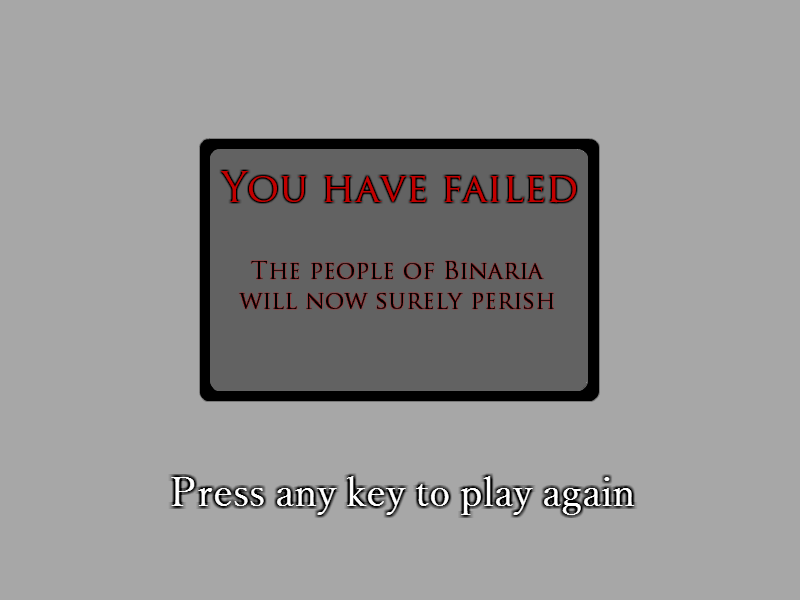
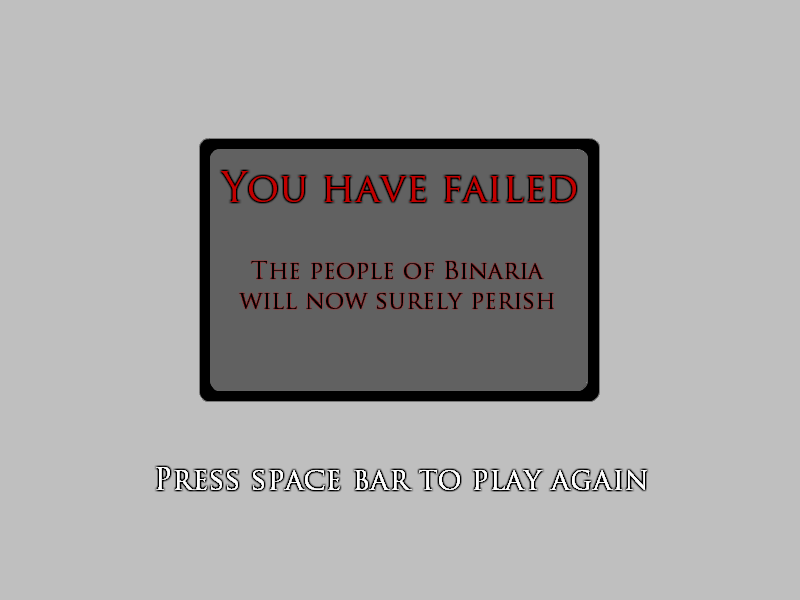
Fixed death screen, all menus now require space instead of any key

Changed region(s): [[0.1875, 0.78, 0.8125, 0.87]]

diff --git a/src/ZELDA_GAME.js b/src/ZELDA_GAME.js
@@ -89,6 +89,7 @@ var g_isMuted = false;
 
 var KEY_MUTE   = keyCode('M');
 var KEY_SPATIAL = keyCode('X');
+var KEY_SPACE = keyCode(' ');
 
 var KEY_RESET = keyCode('R');
 
@@ -145,16 +146,18 @@ function processDiagnostics() {
 var g_lvlLength;
 var g_menuScreenOn = true;
 var g_deathScreenOn = false;
-window.addEventListener('keyup', function() {
-    if (g_menuScreenOn) {
-        g_menuScreenOn = false;
-        initLevel();
-    }
-    if (g_deathScreenOn) {
-        g_doClear = true;
-        g_deathScreenOn = false;
-        g_menuScreenOn = true;
-        entityManager.enterLevel(entityManager._level);
+window.addEventListener('keydown', function() {
+    if (keys[KEY_SPACE]) {
+        if (g_menuScreenOn) {
+            g_menuScreenOn = false;
+            initLevel();
+        }
+        if (g_deathScreenOn) {
+            g_doClear = true;
+            g_deathScreenOn = false;
+            g_menuScreenOn = true;
+            entityManager.enterLevel(entityManager._level);
+        }
     }
 });
 
@@ -177,9 +180,9 @@ function renderSimulation(ctx) {
         entityManager.render(ctx);
     
         if (g_renderSpatialDebug) spatialManager.render(ctx);
-        if (g_deathScreenOn) g_sprites.deathScreen.drawAt(ctx, 0, 0, g_canvas.width, g_canvas.height);
         ctx.restore();
         
+        if (g_deathScreenOn) g_sprites.deathScreen.drawAt(ctx, 0, 0, g_canvas.width, g_canvas.height);       
         g_score.render(ctx);
     }
 };

diff --git a/src/entityManager.js b/src/entityManager.js
@@ -177,9 +177,17 @@ update: function(du) {
                 // remove the dead guy, and shuffle the others down to
                 // prevent a confusing gap from appearing in the array
                 aCategory.splice(i,1);
-                if(c === 1) { // Zelda died!
-                    g_doClear = false; 
+                if(c === 1) { // Zelda died! 
                     g_deathScreenOn = true;
+                    backgroundMusic.pause();
+                    backgroundMusic = g_audio.themeDeath;
+                    try {
+                        backgroundMusic.addEventListener('ended', function () {
+                            this.currentTime = 0;
+                            this.play();
+                        });
+                        backgroundMusic.play();
+                    } catch (err) {};                   
                 }
             }
             else {
